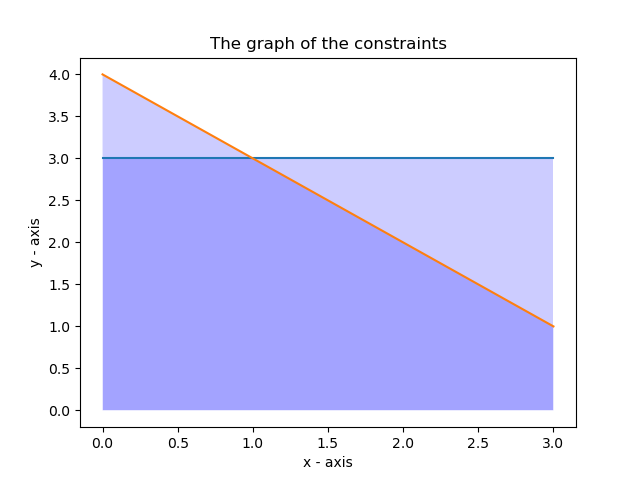
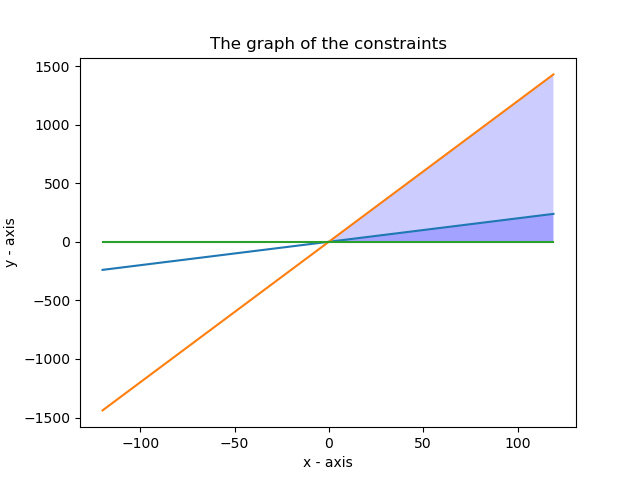
Se arreglan problemas de graficas

diff --git a/simple.py b/simple.py
@@ -10,33 +10,33 @@ import math
 from mpl_toolkits.mplot3d import Axes3D
 
 # This function does everything with the graphing
-def show3Dfunction(functions):
-
+def show3Dfunction(functions, points_into_the_graphic):
+    
     # This gets the max point to show the linear function
     max_number = 0
     length_of_matrix = len(functions)
     for i in functions:
         max_number = max(i[len(i) - 1], max_number)
 
+    array_of_planes = []
+
+    for i in range(0,length_of_matrix-1):
+        plane = [functions[i][0],functions[i][1],functions[i][2]]
+        array_of_planes.append(plane)
+
+
     fig = plt.figure()
-    ax = fig.add_subplot(111, projection='3d')
+    ax = fig.add_subplot(111,projection='3d')
+    for i in array_of_planes:
 
-    # create x,y
-    xx, yy = np.meshgrid(range(max_number), range(max_number))
+        xx, yy = np.meshgrid(range(100), range(100))
 
-    list_of_planes = []
+        z = (-i[0] * xx - i[1] * yy) * 1. / i[2]
 
-    for i in functions:
-        x = i[-1]//i[0]
-        y = i[-1] // i[1]
-        z = i[-1] // i[2]
-        list_of_planes.append(np.array([x, y, z]))
+        ax.scatter(points_into_the_graphic[0],points_into_the_graphic[1], points_into_the_graphic[2], color='green')
 
-    for i in list_of_planes:
-
-        # calculate corresponding z
-        z = (i[0] * xx + i[1] * yy) * 1. / i[2]
         ax.plot_surface(xx, yy, z, alpha=0.2)
+
     return plt
 
 # This function does everything with the graphing
@@ -44,18 +44,20 @@ def show2Dfunction(functions):
     # This gets the max point to show the linear function
     max_number = 0
     length_of_matrix = len(functions)
+    #print(functions)
     for i in functions:
         max_number = max(i[len(i) - 1], max_number)
 
     # Adds the range of the X dimension
-    x = np.array(range(0, max_number))
+    x = np.array(range(max_number*-10, max_number*10))
 
     array_of_functions = []
     array_of_functions.append(eval("0*x"))
     # Adds the linear function to the graph
-    for i in range(1, length_of_matrix - 1):
-        y = eval("(" + str(functions[i][-1]) + "-" + str(functions[i][0]) + "*x)/" + str(functions[i][1]))
-        print(y)
+    for i in range(0, length_of_matrix):
+        y = eval("(" + str(functions[i][0]) + "-" + str(functions[i][-1]) + "*x) / " + str(- functions[i][1]))
+        #print("(" + str(functions[i][0]) + "-" + str(functions[i][-1]) + "*x) / " + str(- functions[i][1]))
+        #print(y)
         plt.plot(x, y)
         array_of_functions.append(y)
     # Saves the image, this is necesary because we need to open it later
@@ -63,8 +65,7 @@ def show2Dfunction(functions):
     plt.xlabel('x - axis')
     plt.ylabel('y - axis')
     plt.title('The graph of the constraints')
-
-    print(array_of_functions)
+    #print(array_of_functions)
     for i in range(1,len(array_of_functions)):
         plt.fill_between(x,array_of_functions[0], array_of_functions[i], where=(array_of_functions[i] >= 0), facecolor='blue', alpha=0.2)
 
@@ -113,12 +114,6 @@ def hasnegatives(matrix_function):
             return True
 
     return False
-
-def imp(matriz):
-    
-    print('\n')
-    for x in range(len(matriz)):
-        print(matriz[x])
 
 def errorfunction(msj):
     
@@ -178,11 +173,12 @@ def makechanges(matrix_function, matrices, changes):
     changes.append(tmp_changes)
 
 
-def destroywindow(third_window, matrices, changes, plt, matrix_function, dim):
+def destroywindow(third_window, matrices, changes, plt, matrix_function, dim, first_matrix):
     third_window.destroy()
-    thirdwindowfunction(matrices, changes, plt, matrix_function, dim)
 
-def return_result(matrix_function, dim, plt):
+    thirdwindowfunction(matrices, changes, plt, matrix_function, dim, first_matrix)
+
+def return_result(matrix_function, dim, plt, first_matrix):
 
     list = []
     point = [0] * 10
@@ -195,19 +191,17 @@ def return_result(matrix_function, dim, plt):
                 point[j] = Fraction(i[-1]).limit_denominator()
                 points_into_the_graphic[j] = i[-1]
     list.append("Resultado ------>" + str( Fraction(matrix_function[len(matrix_function)-1][len(matrix_function[0])-1]).limit_denominator() ))
+    print("Resultado ------>" + str( Fraction(matrix_function[len(matrix_function)-1][len(matrix_function[0])-1]).limit_denominator() ))
     if dim == 2:
         plt.scatter(point[0], point[1], label='Result', color='r')
         plt.savefig('result_graph.png')
     elif dim == 3:
-
-        print(points_into_the_graphic)
-        fig = plt.figure()
-        ax = fig.add_subplot(111, projection='3d')
-        ax.scatter(points_into_the_graphic[0],points_into_the_graphic[1], points_into_the_graphic[2], color='green')
+        plt = show3Dfunction(first_matrix, points_into_the_graphic)
         plt.show()
+
     return list
 
-def thirdwindowfunction(matrices, changes, plt, matrix_function, dim):
+def thirdwindowfunction(matrices, changes, plt, matrix_function, dim, first_matrix):
     # Create a third window.
     third_window = Tk()
 
@@ -223,7 +217,7 @@ def thirdwindowfunction(matrices, changes, plt, matrix_function, dim):
     if matrices == []:
 
 
-        matrix_function = return_result(matrix_function, dim, plt)
+        matrix_function = return_result(matrix_function, dim, plt, first_matrix)
         for i in range(len(matrix_function)):
             function_label = Label(third_window, text=matrix_function[i])
             function_label.place(x=200, y=30*(i+1))
@@ -270,13 +264,22 @@ def thirdwindowfunction(matrices, changes, plt, matrix_function, dim):
 
         # The buttton
         button = Button(third_window, text="Next",
-                        command=lambda: destroywindow(third_window, matrices[1:], changes[1:], plt, matrix_function, dim))
+                        command=lambda: destroywindow(third_window, matrices[1:], changes[1:], plt, matrix_function, dim, first_matrix))
         button.place(x=700, y=300)
 
         third_window.mainloop()
 
 
-def calculate(second_window, matrices, changes, matrix_function, plt, dim):
+def calculate(second_window, matrices, changes, matrix_function, plt, dim, first_matrix):
+
+    matriz = []
+
+    for i in first_matrix:
+        dato = []
+        for j in i:
+            dato.append(j)
+        matriz.append(dato)
+
     second_window.destroy()
 
     var = hasnegatives(matrix_function)
@@ -287,10 +290,12 @@ def calculate(second_window, matrices, changes, matrix_function, plt, dim):
         makechanges(matrix_function, matrices, changes)
         var = hasnegatives(matrix_function)
 
+
     matrix_tmp = copy.deepcopy(matrix_function)
     matrices.append(matrix_tmp)
 
-    thirdwindowfunction(matrices, changes, plt, matrix_function, dim)
+
+    thirdwindowfunction(matrices, changes, plt, matrix_function, dim, matriz)
 
 
 def secondwindowfunction(first_window, matrix_function,dim):
@@ -320,7 +325,6 @@ def secondwindowfunction(first_window, matrix_function,dim):
             function_label.place(x=80 * (j + 1), y=40 * (i + 1))
 
     plt = []
-    print(dim)
     # Calls the function
     if dim == 2:
         plt = show2Dfunction(matrix_function)
@@ -333,19 +337,9 @@ def secondwindowfunction(first_window, matrix_function,dim):
         panel.place(x=80, y=250)
         # This is necesary to open the window
 
-    elif dim == 3:
-        plt = show3Dfunction(matrix_function)
-
-
-        # The buttton
-        button = Button(second_window, text="Next", command=lambda: calculate(
-            second_window, matrices, changes, matrix_function, plt, dim))
-
-        button.place(x=800, y=450)
-        plt.show()
     # The buttton
     button = Button(second_window, text="Next", command=lambda: calculate(
-        second_window, matrices, changes, matrix_function, plt, dim))
+        second_window, matrices, changes, matrix_function, plt, dim, matrix_function))
 
     button.place(x=800, y=450)
     second_window.mainloop()
@@ -380,10 +374,7 @@ def firstwindowfunction():
 
     dim = 0
 
-    print(file_function_int[len(file_function_int) - 1])
-
     for i in range(len(file_function_int[0])):
-        print(file_function_int[len(file_function_int)-1][i])
         if file_function_int[len(file_function_int)-1][i] != 0:
             dim = dim + 1
         else:

diff --git a/3d.py b/3d.py
@@ -3,26 +3,22 @@ import matplotlib.pyplot as plt
 from mpl_toolkits.mplot3d import Axes3D
 
 point  = np.array([1, 2, 3])
-normal = np.array([5, 5, 2])
+normal = np.array([1, 1, 2])
 
 point2 = np.array([10, 50, 50])
 
-# a plane is a*x+b*y+c*z+d=0
-# [a,b,c] is the normal. Thus, we have to calculate
-# d and we're set
+
 d = -point.dot(normal)
 
-# create x,y
-xx, yy = np.meshgrid(range(10), range(10))
+xx, yy = np.meshgrid(range(100), range(100))
 
-# calculate corresponding z
 z = (-normal[0] * xx - normal[1] * yy - d) * 1. / normal[2]
 
 
 fig = plt.figure()
 ax = fig.add_subplot(111,projection='3d')
 ax.plot_surface(xx, yy, z, alpha=0.2)
-#and i would like to plot this point :
+
 ax.scatter(point2[0] , point2[1] , point2[2],  color='green')
 
 plt.show()
